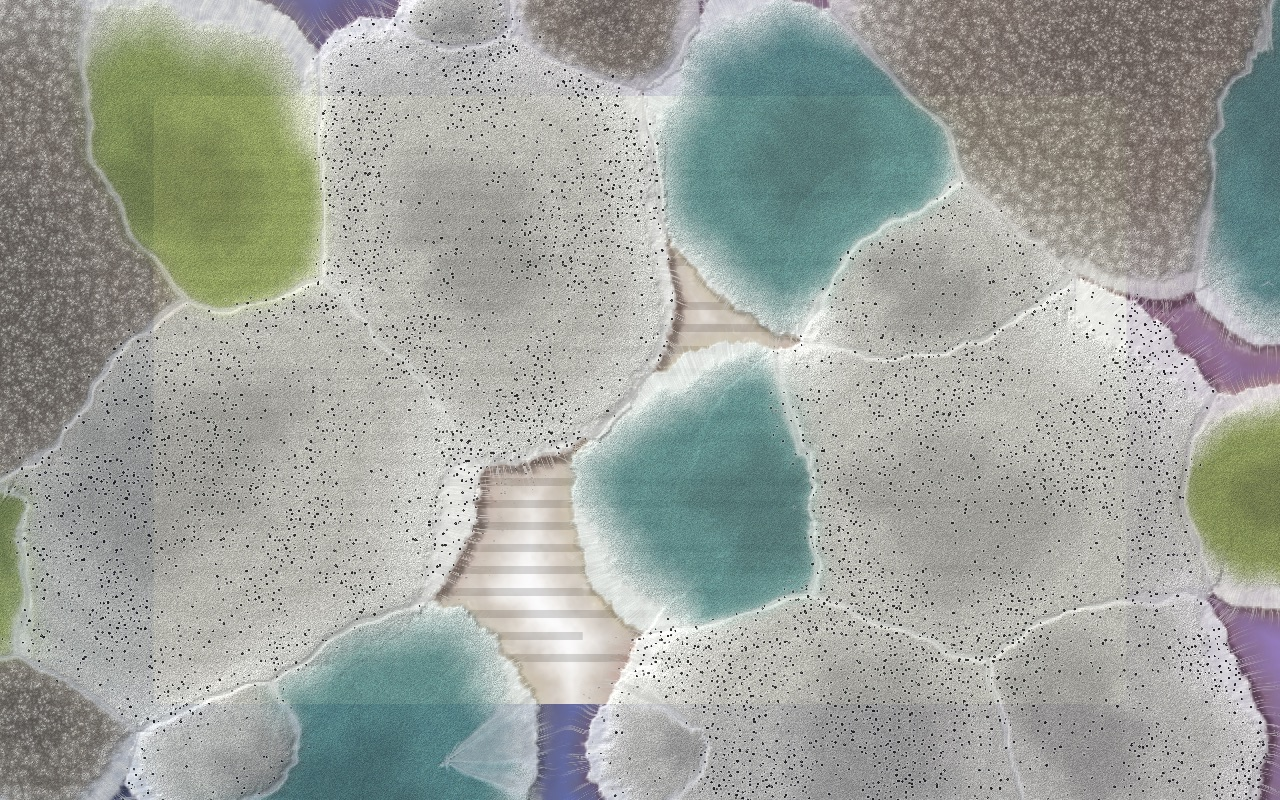
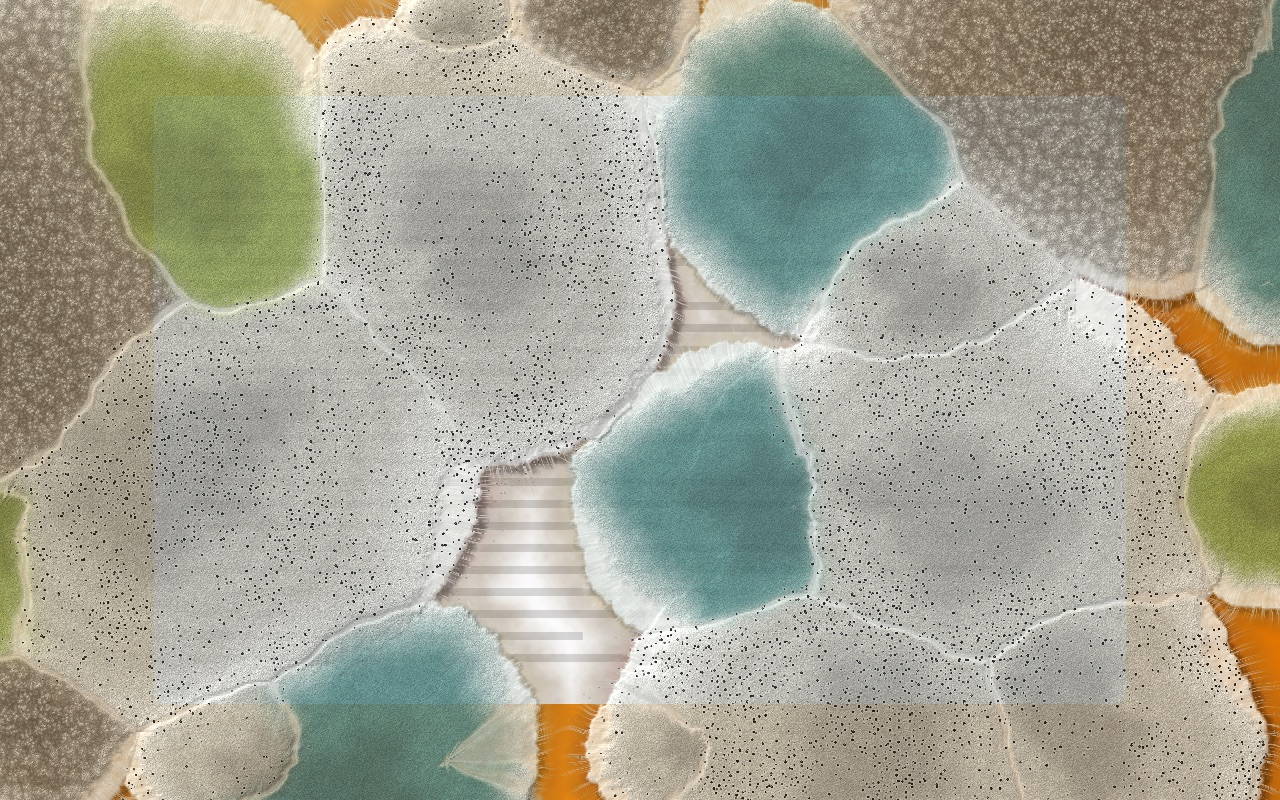
Orange-peel desktop for README screenshots, add social preview
Claude-Session: https://claude.ai/code/session_01GVuBuzXnRKM3qX1vCm55sd

diff --git a/Sources/MouldRender/Snapshot.swift b/Sources/MouldRender/Snapshot.swift
@@ -55,12 +55,21 @@ public enum Snapshot {
         guard CGImageDestinationFinalize(dest) else { throw CocoaError(.fileWriteUnknown) }
     }
 
-    /// A plausible desktop: wallpaper gradient, a window with some "text" lines.
+    /// A plausible desktop: orange-peel wallpaper, a window with some "text" lines.
     static func drawStandInDesktop(_ ctx: CGContext, rect: CGRect, scale: Double) {
         let space = CGColorSpace(name: CGColorSpace.sRGB)!
-        let colors = [CGColor(red: 0.18, green: 0.32, blue: 0.62, alpha: 1), CGColor(red: 0.62, green: 0.42, blue: 0.70, alpha: 1)]
-        let gradient = CGGradient(colorsSpace: space, colors: colors as CFArray, locations: [0, 1])!
-        ctx.drawLinearGradient(gradient, start: .zero, end: CGPoint(x: rect.width, y: rect.height), options: [])
+        // Deep rind orange at the bottom right (CG's origin is bottom-left) to bright orange at the top left...
+        let rind = CGGradient(colorsSpace: space, colors: [
+            CGColor(red: 0.85, green: 0.37, blue: 0.02, alpha: 1), CGColor(red: 0.97, green: 0.58, blue: 0.12, alpha: 1),
+        ] as CFArray, locations: [0, 1])!
+        ctx.drawLinearGradient(rind, start: CGPoint(x: rect.width, y: 0), end: CGPoint(x: 0, y: rect.height), options: [])
+        // ...with a sunny highlight up there.
+        let glow = CGGradient(colorsSpace: space, colors: [
+            CGColor(red: 1.0, green: 0.70, blue: 0.28, alpha: 0.9), CGColor(red: 1.0, green: 0.70, blue: 0.28, alpha: 0),
+        ] as CFArray, locations: [0, 1])!
+        let highlight = CGPoint(x: rect.width * 0.18, y: rect.height * 0.88)
+        ctx.drawRadialGradient(glow, startCenter: highlight, startRadius: 0, endCenter: highlight,
+                               endRadius: max(rect.width, rect.height) * 0.55, options: [])
         let window = rect.insetBy(dx: rect.width * 0.12, dy: rect.height * 0.12)
         ctx.setFillColor(CGColor(gray: 0.98, alpha: 1))
         ctx.addPath(CGPath(roundedRect: window, cornerWidth: 12 * scale, cornerHeight: 12 * scale, transform: nil))
